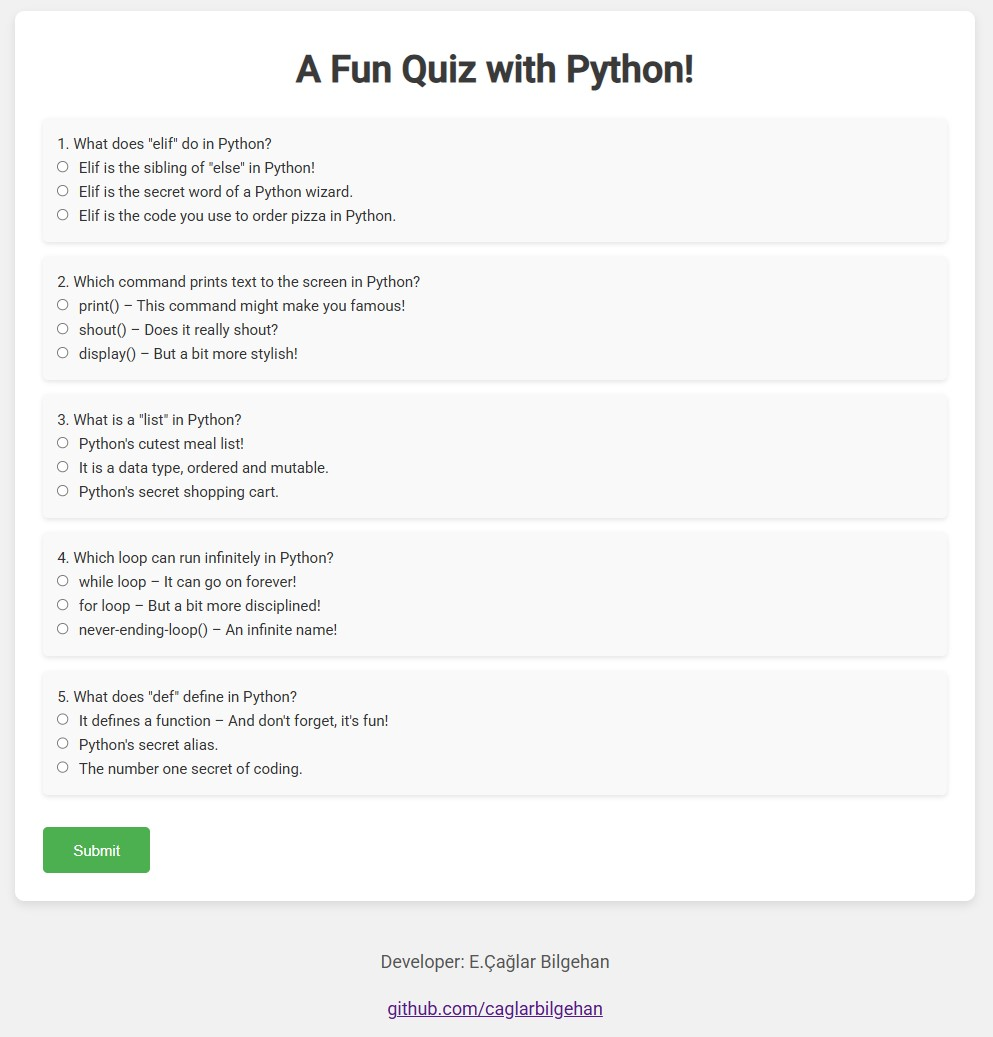
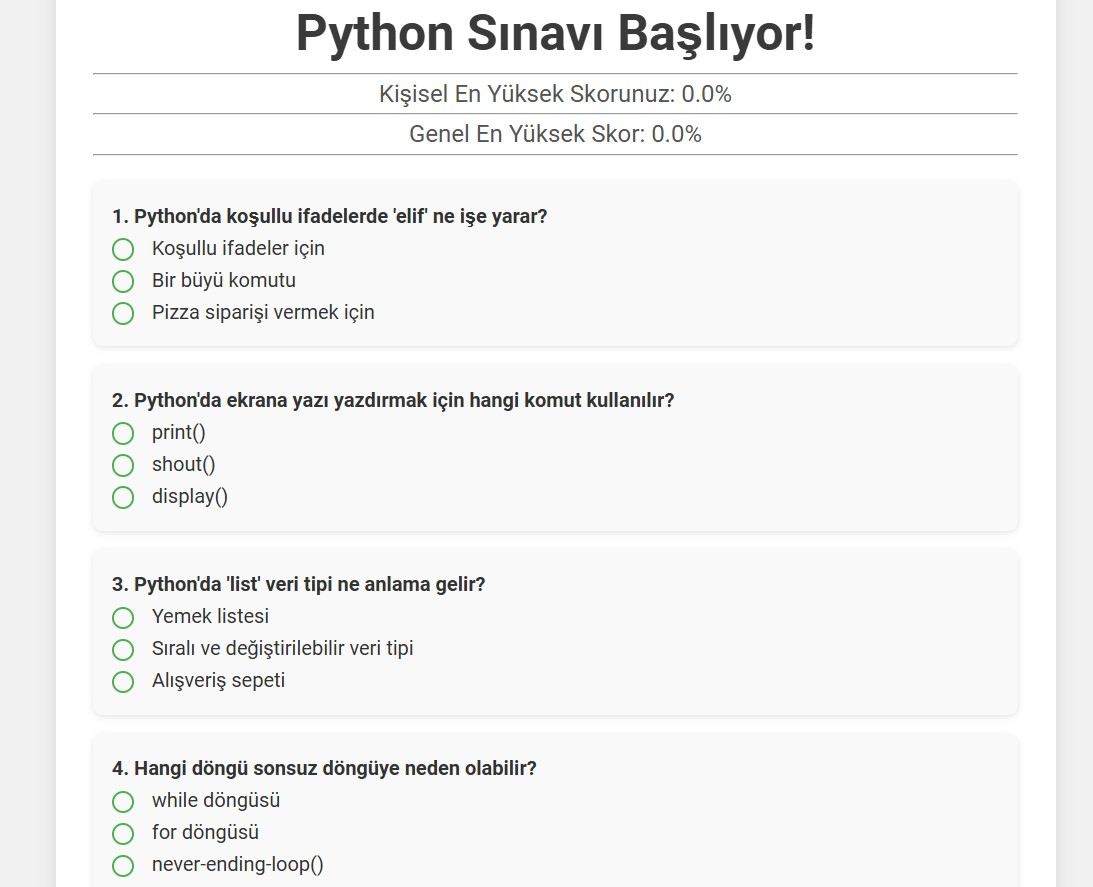
V11

diff --git a/README.md b/README.md
@@ -1,78 +1,4 @@
-# Python-Flask-Quiz-App
+# **Python-Flask-Quiz-App**
 
-🎉 **A Fun Quiz with Python!** 🎉  
-This project is a simple and fun quiz application developed using Python and Flask. Users can answer the questions, see their scores, and track the highest score. The app also provides an option to reset the highest score.
-
-## Features
-- 📝 Multiple-choice questions
-- ✅ Score calculation based on correct answers
-- 🏆 Save and display the highest score
-- 🔄 Reset the highest score
-- 🎨 Simple and user-friendly interface
-
-## Installation
-
-Follow these steps to run this project on your local machine:
-
-### Requirements
-- Python 3.x
-- Flask
-
-### Steps
-```bash
-# 1. Clone the repository:
-git clone https://github.com/caglarbilgehan/Python-Flask-Quiz-App.git
-
-# 2. Navigate to the project directory:
-cd Python-Flask-Quiz-App
-
-# 3. Install the required Python libraries:
-pip install flask
-
-# 4. Start the application:
-python app.py
-
-# . Open the following URL in your browser:
-http://127.0.0.1:5000
-```
-
-## Usage
-- Answer the questions and click the "Submit" button.
-- See your score and the highest score on the results page.
-- Click the "Reset Highest Score" button to clear all scores.
-- Start a new quiz by clicking the "Start New Quiz" button.
-
-## Video Demo
-
-[Watch the Video on YouTube](https://www.youtube.com/watch?v=Em_GhfFaUdU)
-
-## Screenshots
-### Home Page
-<img src="screenshots/quiz.jpg" alt="Quiz Page" width="600">
-
-### Results Page
-<img src="screenshots/results.jpg" alt="Results Page" width="600">
-
-## Project Structure
-```
-Python-Flask-Quiz-App/
-├── app.py             # Main application file
-├── quiz.db            # SQLite database
-├── templates/
-│   ├── quiz.html      # Quiz page
-│   ├── result.html    # Results page
-└── static/
-    └── styles.css     # (Optional) Stylesheet
-```
-
-## Contributing
-All contributions and feedback are welcome! Please make sure to open an issue before submitting a pull request. 🎉
-
-## Contact
-If you have any questions or suggestions about this project, feel free to contact me:  
-📧 Email: [caglar@bilgehan.biz](mailto:caglar@bilgehan.biz)  
-💻 GitHub: [caglarbilgehan](https://github.com/caglarbilgehan)
-
----
-
-Thank you and have fun! 🎉
+🎉 **Python ile Eğlenceli Bir Quiz!** 🎉  
+Bu proje, Python ve Flask kullanılarak geliştirilmiş bir quiz uygulamasıdır. Kullanıcılar soruları yanıtlayabilir, puanlarını görebilir ve en yüksek puanı takip edebilir. Uygulama ayrıca en yüksek puanı sıfırlama seçeneği de sunmaktadır.
